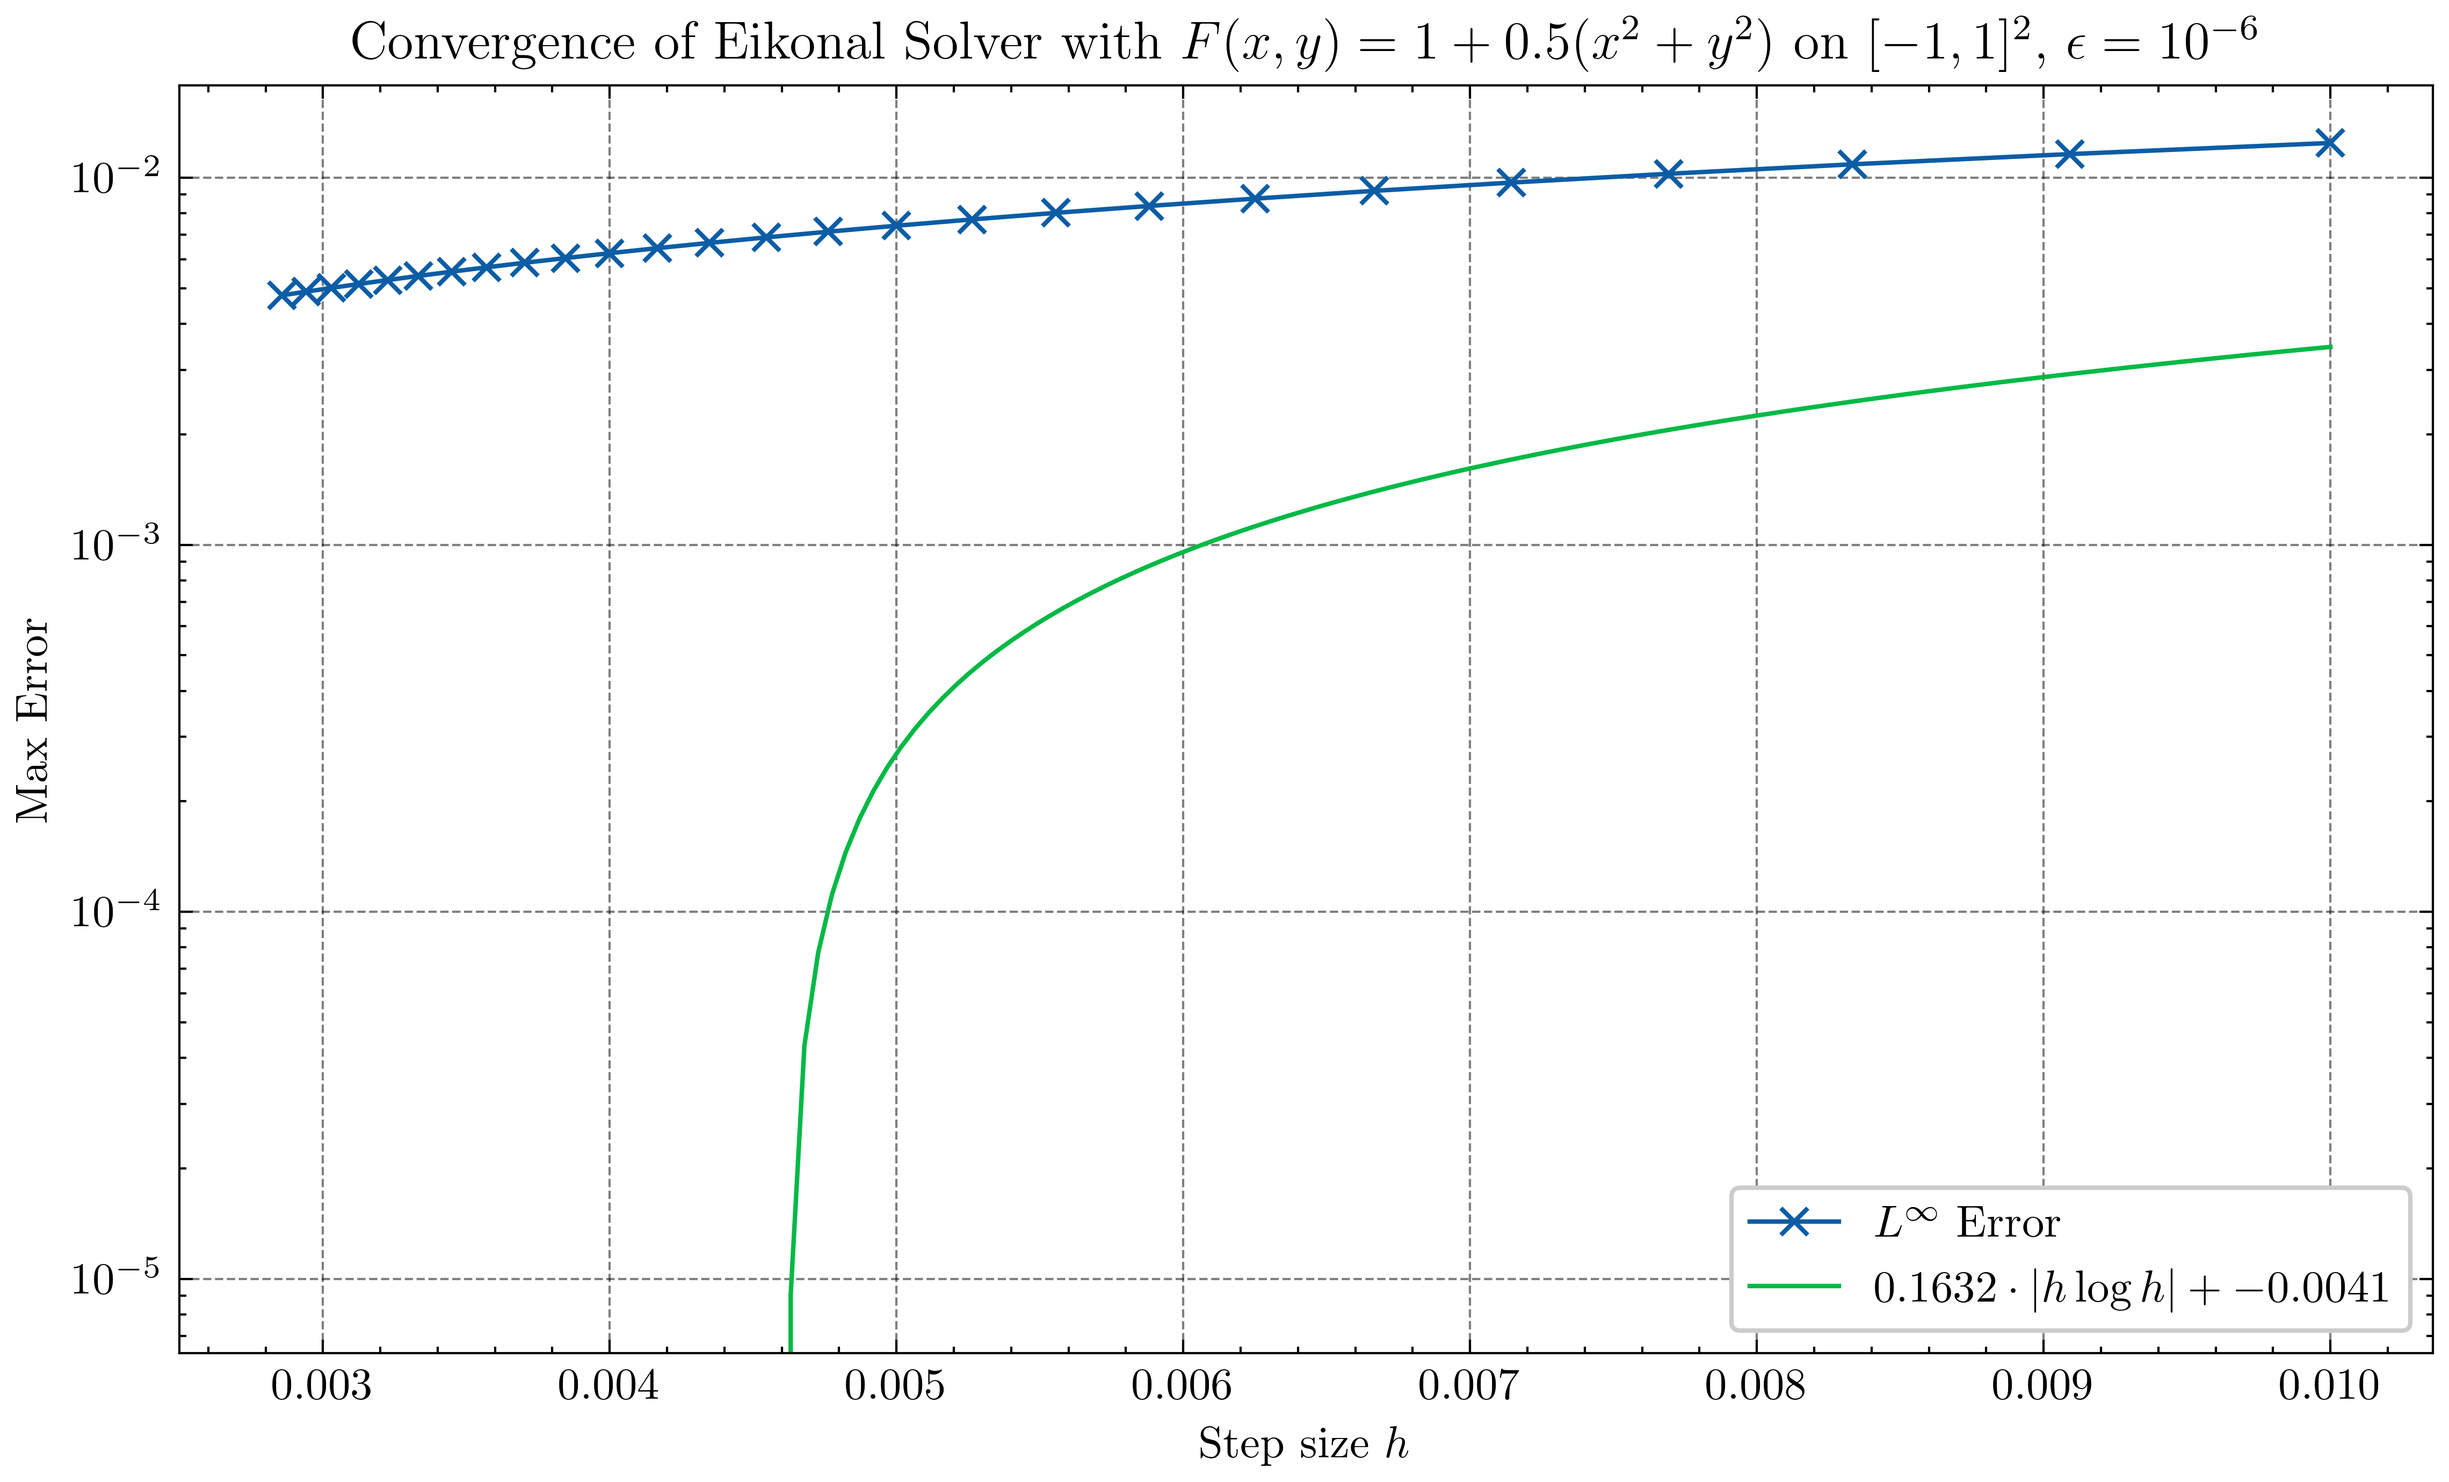
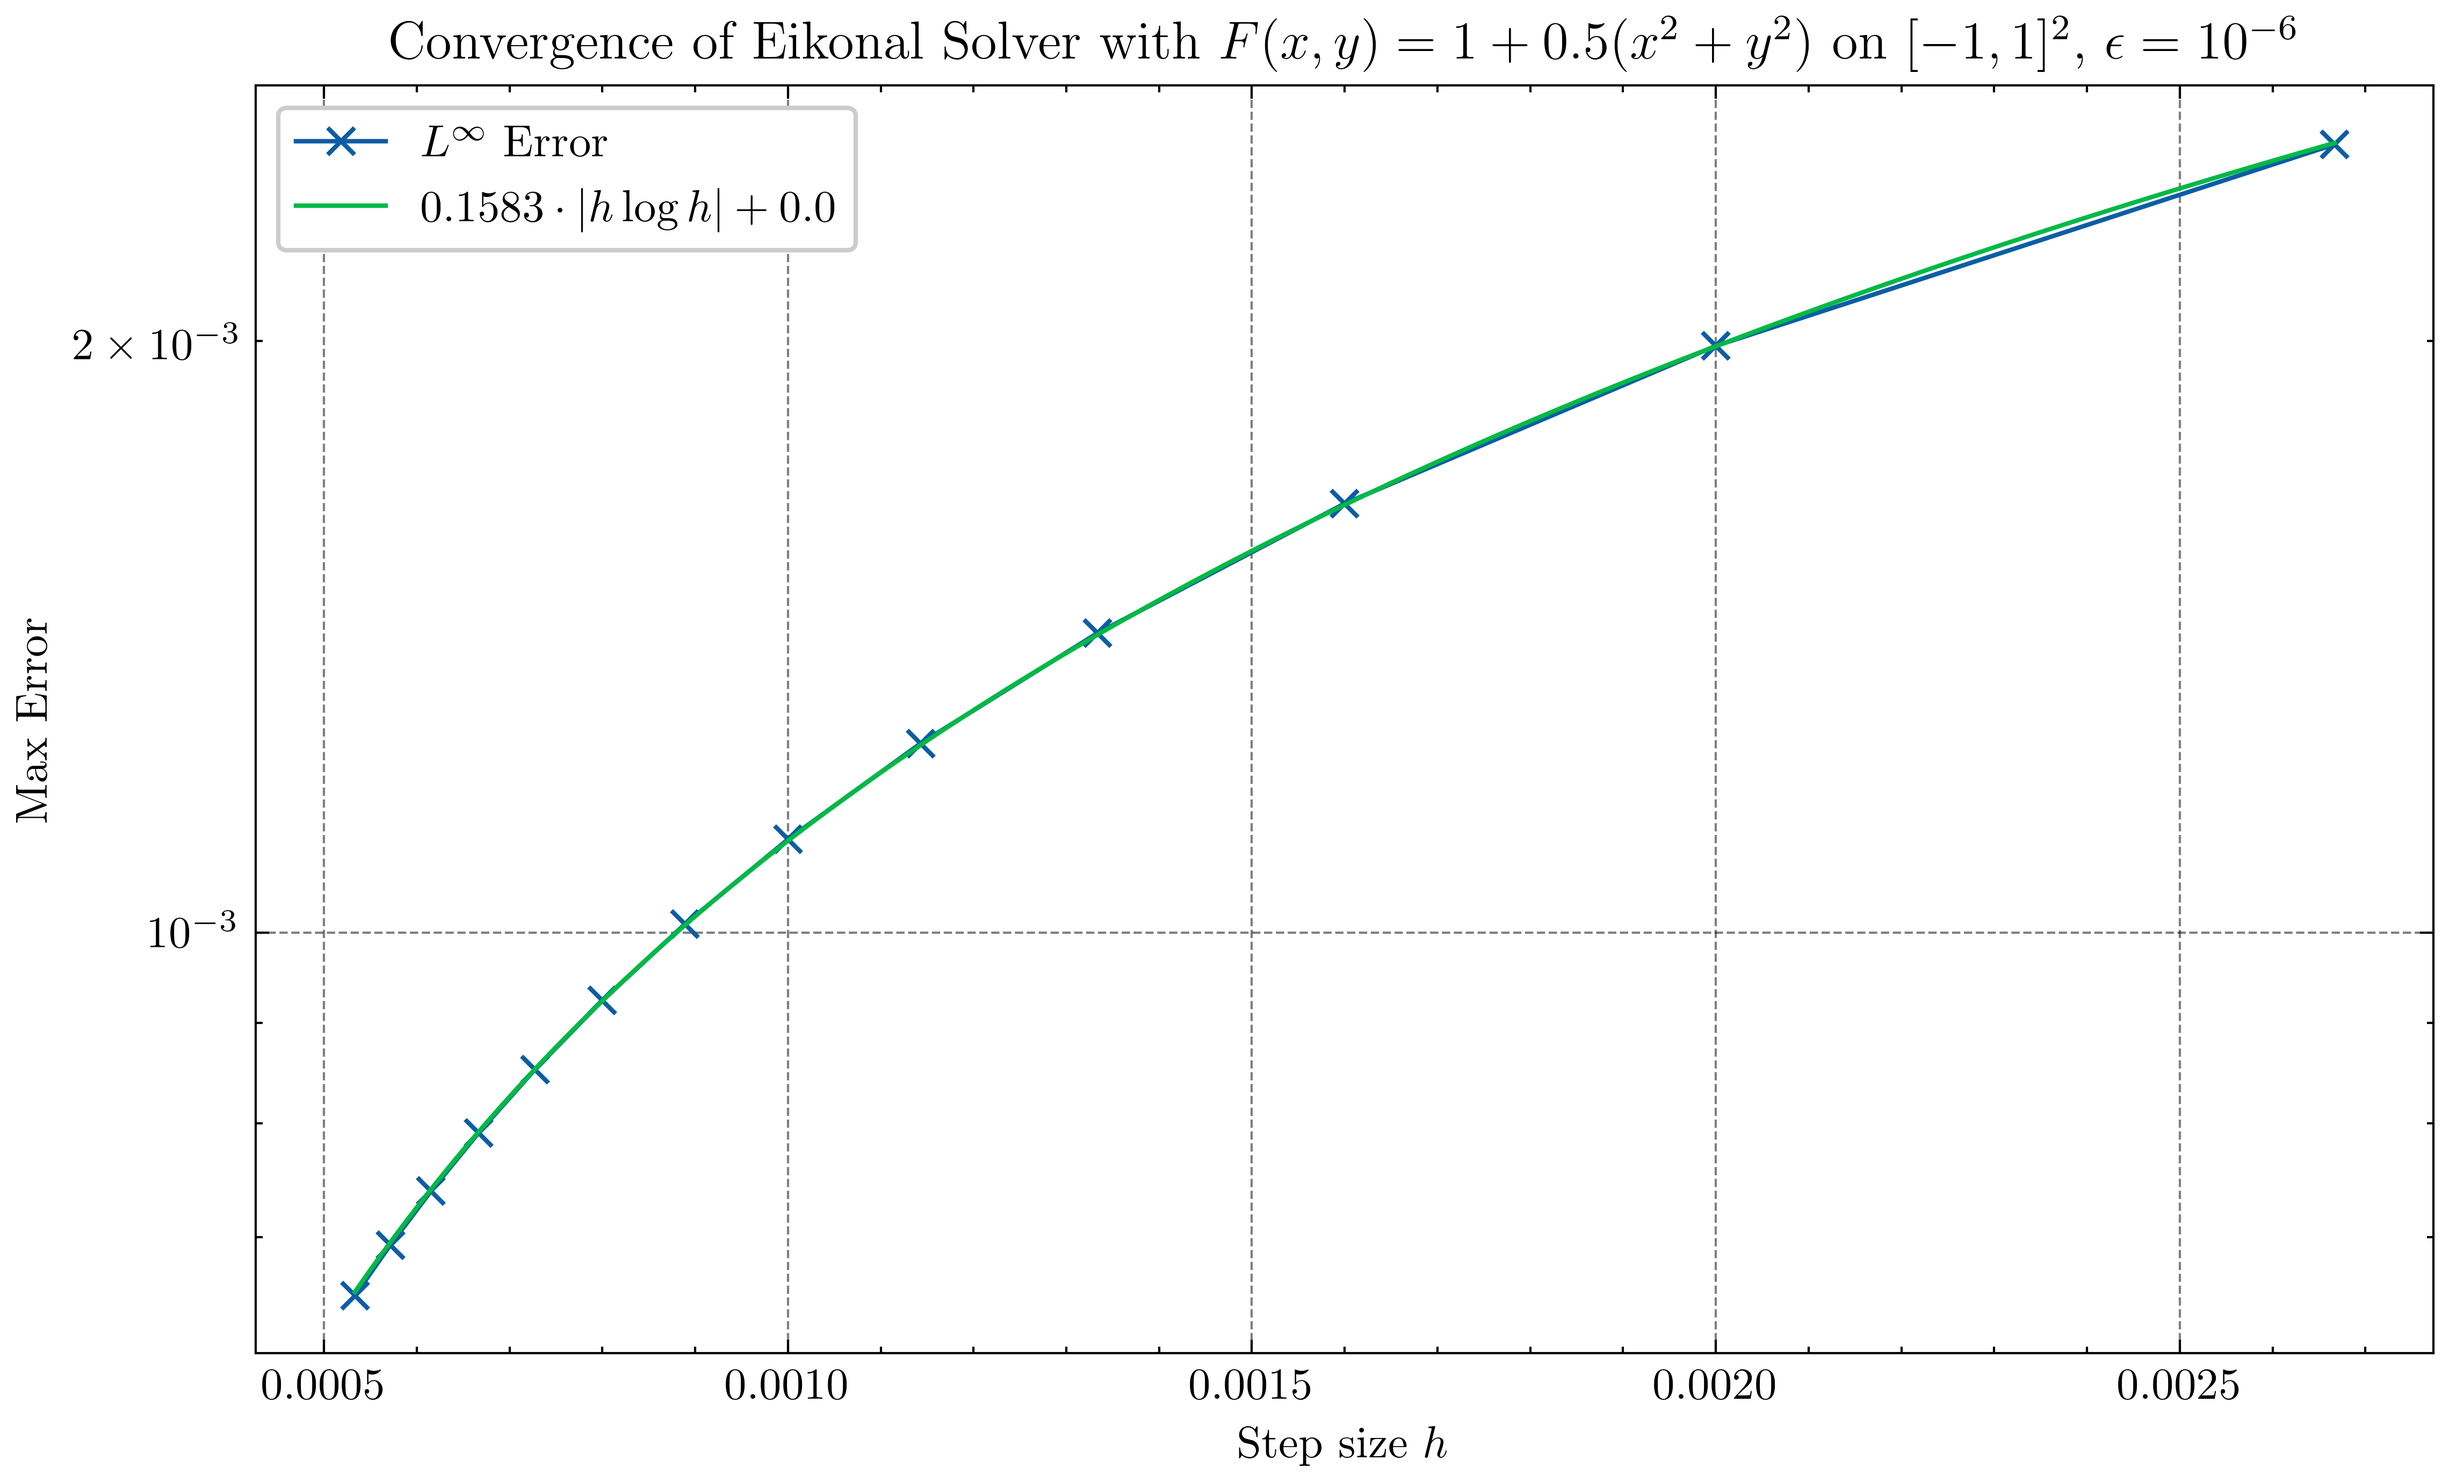
update backtracing plots

diff --git a/backtracing/snell_example/snell_convergence.py b/backtracing/snell_example/snell_convergence.py
@@ -30,19 +30,18 @@ true_path = np.vstack([segment1, segment2])
 #LOADING THE GRID & REPLICATING THE VARIABLES IN exampleSnell.py
 dom = ComputationalDomain(N = 801, a = -1, b = 1, c = -1, d = 1)
 dom.Gamma([(200,600)])
-grid = np.load('../snell_grid.npy')
-
+grid = np.load('snell_grid.npy')
+print('h : ',dom.h)
 # COMPUTING THE PATH
 path = ODE_backtracer(x0 = [x0,y0], dt = dom.h, domain = dom, u_grid = grid)
 
 
-l = [i for i in range(10,0,-1)]
-for j in range(2,11):
-    l.append(float(1/j))
+dt = np.linspace(3 * dom.h, 1.75*dom.h, 25)
 h_distances = []
-for k in l:
-    print('k = {}'.format(k))
-    path = ODE_backtracer(x0 = [x0,y0], dt = dom.h*k, domain = dom, u_grid = grid)
+
+for dt_value in dt:
+    print('path planning with dt=',dt_value)
+    path = ODE_backtracer(x0 = [x0,y0], dt = dt_value, domain = dom, u_grid = grid)
     d1 = directed_hausdorff(path, true_path)[0]
     d2 = directed_hausdorff(true_path, path)[0]
     hausdorff_distance = max(d1, d2)
@@ -50,22 +49,9 @@ for k in l:
     print(hausdorff_distance)
 
 
-# Convert `l` to an array of step sizes
-dt_values = np.array([dom.h * k for k in l])
 h_distances = np.array(h_distances)
+np.save('dt_values.npy',np.array(dt))
+np.save('haussdorf_distances.npy',h_distances)
 
-# Sort by increasing dt (for clean plotting)
-sorted_indices = np.argsort(dt_values)
-dt_values = dt_values[sorted_indices]
-h_distances = h_distances[sorted_indices]
 
-# Plot
-plt.figure(figsize=(8, 6))
-plt.scatter(dt_values, h_distances, lw=2, label='Hausdorff distance')
-plt.xlabel("Step size (dt)")
-plt.ylabel("Hausdorff distance")
-plt.title("Convergence of Backtraced Path vs True Path")
-plt.grid(True, which="both", ls="--")
-plt.legend()
-plt.tight_layout()
 plt.show()

diff --git a/results/general_f/arctan.py b/results/general_f/arctan.py
@@ -7,21 +7,21 @@ from computational_domain import ComputationalDomain
 def F(x, y):
     return 1 + 0.5*(x**2 + y**2)
 
-A = 36
+A = 16
 epsilon = 1e-6
 errors = []
 
-for N in [(20*i + 1) for i in range(10, A)]:
+for N in [(250*i + 1) for i in range(3, A)]:
     print("Running convergence analysis. N = ", N)
-    unit_square = ComputationalDomain(N = N, a = -1, b = 1, c = -1, d = 1)
+    unit_square = ComputationalDomain(N = N, a = -1/2, b = 1/2, c = -1/2, d = 1/2)
     unit_square.Gamma([(int((N-1)/2), int((N-1)/2))])
 
     solver = EikonalSolver(unit_square, F = F)
     solver.SweepUntilConvergence(epsilon = epsilon)
     numerical_solution = solver.grids_after_sweeps[-1]
 
-    x = np.linspace(-1, 1, N)
-    y = np.linspace(-1, 1, N)
+    x = np.linspace(-1/2, 1/2, N)
+    y = np.linspace(-1/2, 1/2, N)
     X, Y = np.meshgrid(x, y)
     true_solution = np.sqrt(2)*np.arctan(np.sqrt(X**2 + Y**2)/np.sqrt(2))
 
@@ -32,7 +32,7 @@ for N in [(20*i + 1) for i in range(10, A)]:
 
 print("Convergence analysis finished. Saving results.")
 np.save('2D_arctan_errors.npy', errors)
-np.save('N_index_errors_arctan.npy', [(20*i + 1) for i in range(10,A)])
+np.save('N_index_errors_arctan.npy', [(20*i + 1) for i in range(3,A)])
 
 # EXAMPLE ON LARGER GRID (FOR PLOTTING PURPOSES)
 domain2 = ComputationalDomain(N = 801, a = -2, b = 2, c = -2, d = 2)

diff --git a/backtracing/snell_example/snell_plot.py b/backtracing/snell_example/snell_plot.py
@@ -1,0 +1,28 @@
+import numpy as np
+import matplotlib.pyplot as plt
+import scienceplots
+
+plt.style.use(['science','grid'])
+# Load the saved values
+dt_values = np.load("dt_values.npy")
+h_distances = np.load("haussdorf_distances.npy")
+
+# Log-log regression (base e)
+log_dt = np.log(dt_values)
+log_error = np.log(h_distances)
+slope, intercept = np.polyfit(log_dt[0:18], log_error[0:18], 1)
+
+print(f"Estimated convergence rate (slope): {slope:.3f}")
+
+# Optional: plot log-log line
+plt.figure(figsize=(8,6))
+plt.plot(log_dt, log_error, 'x', label='log-log points')
+plt.plot(log_dt, slope * log_dt + intercept, '-', label=f'Fit line (slope={slope:.3f})')
+plt.xlabel("$\log(\Delta_t)$", fontsize=16)
+plt.ylabel("$\log(d_H(S_{\Delta_t},S))$",fontsize=16)
+plt.title("Log-Log Convergence Plot of Haussdorff Distance ($d_H(S_{\Delta_t},S)$)", fontsize=16, pad = 15)
+plt.grid(True, which="both", ls="--")
+plt.legend()
+plt.tight_layout()
+plt.savefig('../../plots/loglog_plot_convergence_path.png')
+plt.show()

diff --git a/plots/arctan_plots.py b/plots/arctan_plots.py
@@ -4,8 +4,8 @@ import scienceplots
 from sklearn.linear_model import LinearRegression #for fitting error
 
 errors_atan = np.load('../results/general_f/2D_arctan_errors.npy')
-index = np.load('../results/general_f/N_index_errors_arctan.npy')
-
+#index = np.load('../results/general_f/N_index_errors_arctan.npy')
+index = np.array([(250*i + 1) for i in range(3,16)])
 # Convergence plot for error vs. grid size N
 plt.style.use(['science', 'grid'])
 plt.figure(figsize=(7.8, 4.8))
@@ -29,8 +29,8 @@ X = np.array([(2/(N-1)) for N in index]).reshape(-1,1)
 model.fit(np.sqrt(X), errors_atan)
 model2.fit(np.abs(X*np.log(X)),errors_atan)
 model3.fit(X**2,errors_atan)
-A = float(model.coef_)
-B = float(model.intercept_)
+A = float(model2.coef_)
+B = float(model2.intercept_)
 print('R^2 for sqrt h : ',model.score(np.sqrt(X), errors_atan))
 print('R^2 for hlogh : ',model2.score(np.abs(X*np.log(X)), errors_atan))
 print('R^2 for h^2 : ',model3.score(np.abs(X**2), errors_atan))

diff --git a/solvers/eikonal_general_F_2D.py b/solvers/eikonal_general_F_2D.py
@@ -14,9 +14,16 @@ class EikonalSolver:
         self.grids_after_sweeps = []
         self.grids_after_sweeps.append(self.domain.grid)
         self.F = F #Velocity on the domain
+        self.F_grid = np.zeros((self.domain.N, self.domain.N))
+        for i in range(self.domain.N):
+            for j in range(self.domain.N):
+                x = self.domain.a + j * self.domain.h
+                y = self.domain.d - i * self.domain.h  # careful: numpy y axis is reversed
+                self.F_grid[i, j] = F(x, y)
 
     def update_point_with_F(self, current_grid, new_grid, i, j):
-        f_ij = 1/self.F(self.domain.a + j*self.domain.h, self.domain.d - i*self.domain.h) #converting from numpy coordinates to cartesian
+        #f_ij = 1/self.F(self.domain.a + j*self.domain.h, self.domain.d - i*self.domain.h) #converting from numpy coordinates to cartesian
+        f_ij = 1/self.F_grid[i, j]
         N = self.domain.N
         u_old = current_grid[i, j]
 

diff --git a/results/distance/simple_distance.py b/results/distance/simple_distance.py
@@ -18,10 +18,10 @@ print("PDE solved on unit square grid \n")
 # CONVERGENCE ANALYSIS:
 errors = []
 epsilon = 1e-4
-A = 36 # Max value for N is 20*A + 1 = 461 here
+A = 16 # Max value for N is 20*A + 1 = 461 here
 print("Now running convergence analysis...")
 
-for N in [(20*i + 1) for i in range(10, A)]:
+for N in [(500*i + 1) for i in range(2, A)]:
     print("Running convergence analysis. N = ", N)
     unit_square = ComputationalDomain(N = N, a = -1, b = 1, c = -1, d = 1)
     unit_square.Gamma([(int((N-1)/2), int((N-1)/2))])
@@ -43,4 +43,4 @@ for N in [(20*i + 1) for i in range(10, A)]:
 
 print("Convergence analysis finished. Saving results.")
 np.save('2D_distance_errors.npy', errors)
-np.save('N_index_errors.npy', [(20*i + 1) for i in range(10,A)])
+np.save('N_index_errors.npy', [(500*i + 1) for i in range(2,A)])
